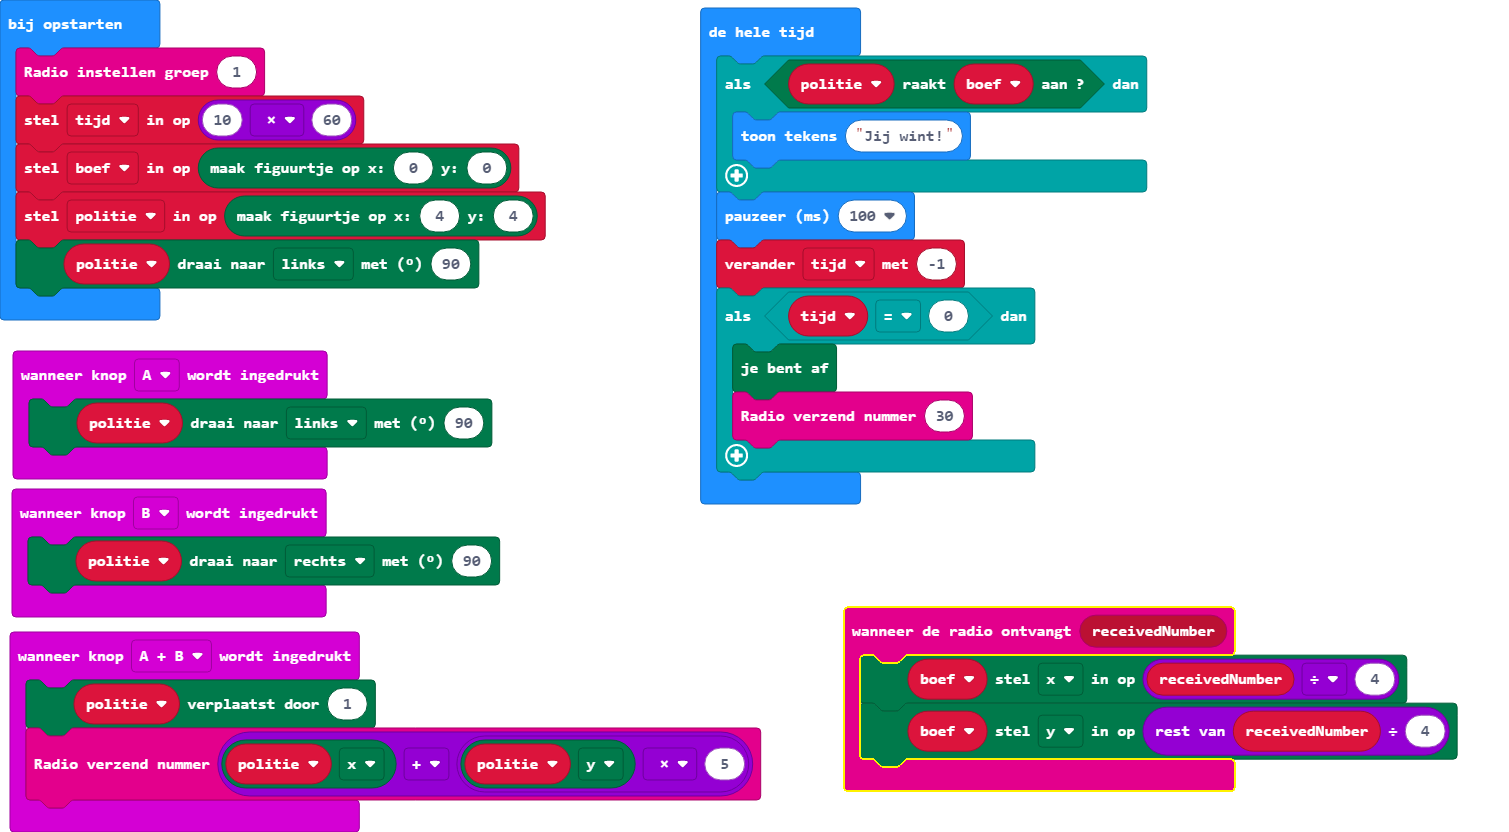
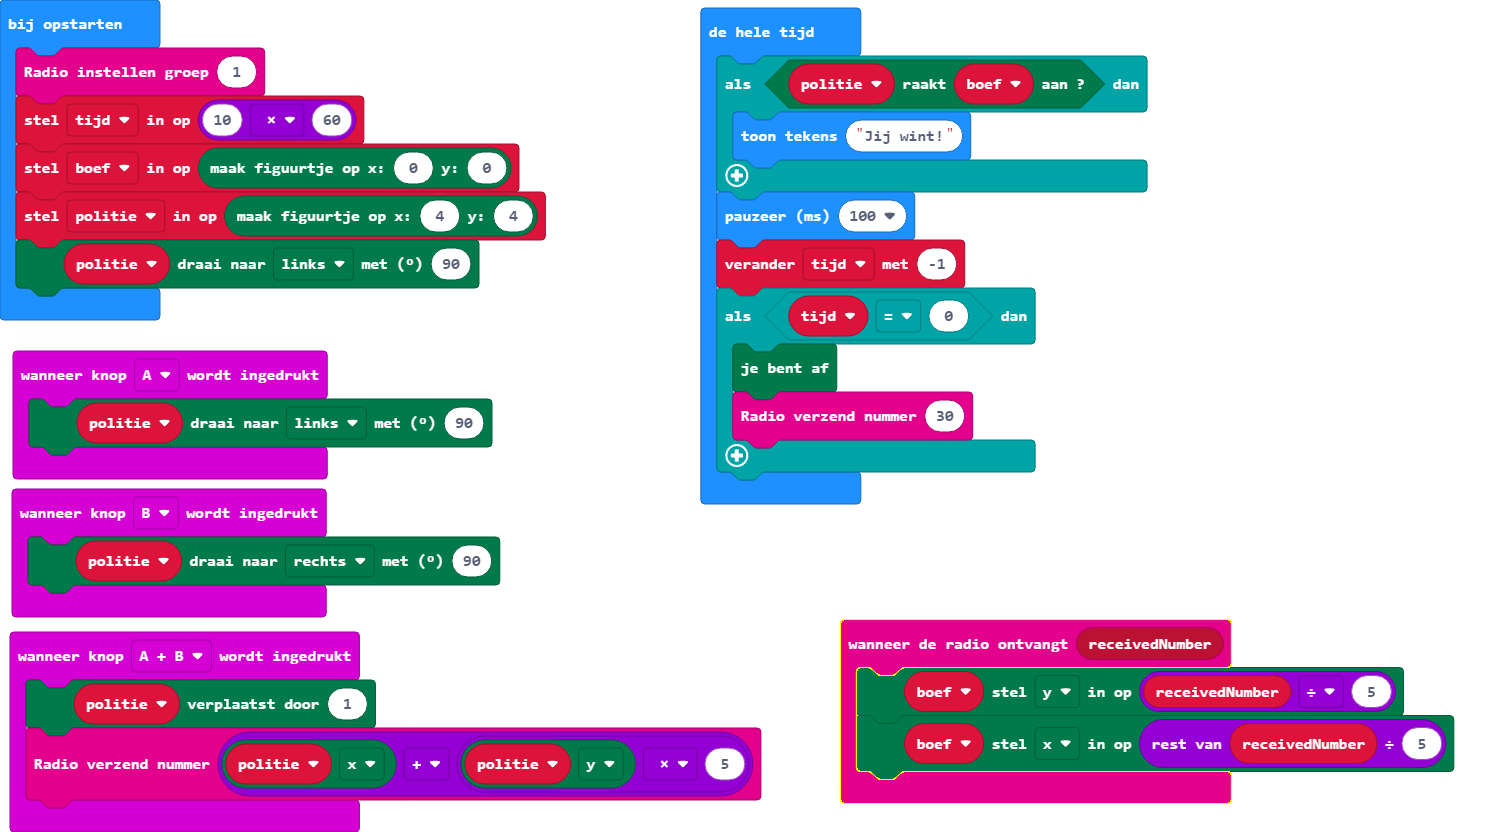
main.blocks, main.ts bijwerken

diff --git a/main.ts b/main.ts
@@ -1,6 +1,6 @@
 radio.onReceivedNumber(function (receivedNumber) {
-    boef.set(LedSpriteProperty.X, receivedNumber / 4)
-    boef.set(LedSpriteProperty.Y, receivedNumber % 4)
+    boef.set(LedSpriteProperty.Y, receivedNumber / 5)
+    boef.set(LedSpriteProperty.X, receivedNumber % 5)
 })
 input.onButtonPressed(Button.A, function () {
     politie.turn(Direction.Left, 90)
